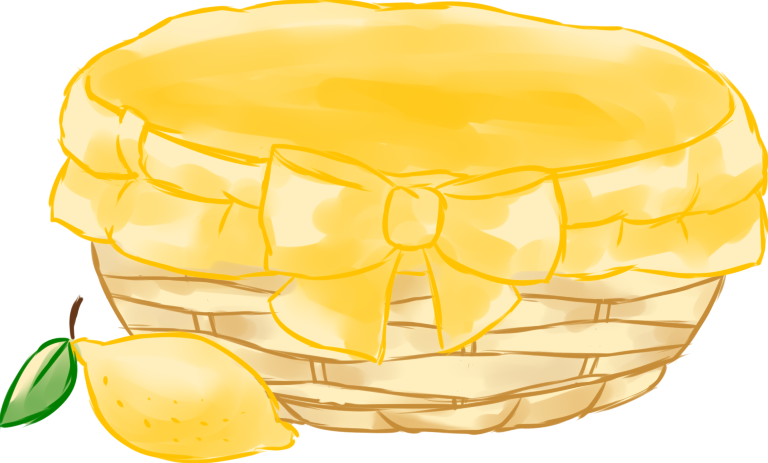
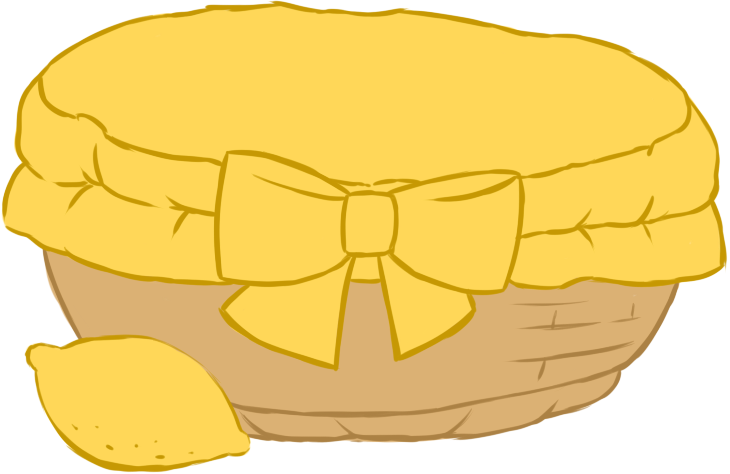
Added ID to Specials section for scrolling, modified 404 image

diff --git a/src/views/Home/SpecialsSection.jsx b/src/views/Home/SpecialsSection.jsx
@@ -4,7 +4,7 @@ const { default: SpecialsCarousel } = require("components/Specials/Specials");
 
 function SpecialsSection() {
 	return (
-		<section>
+		<section id="menu">
 			<Stack className="container" direction="column" spacing={6}>
 				<Stack
 					sx={{
